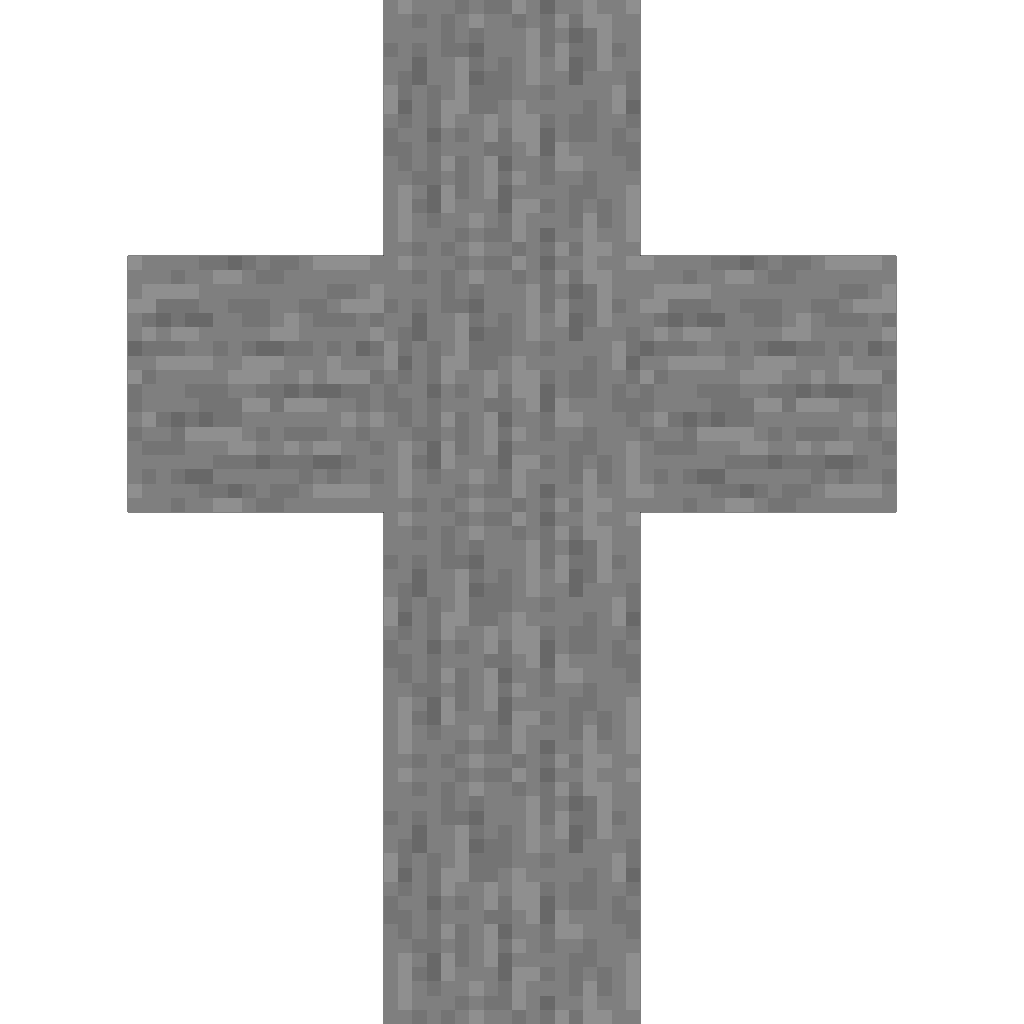
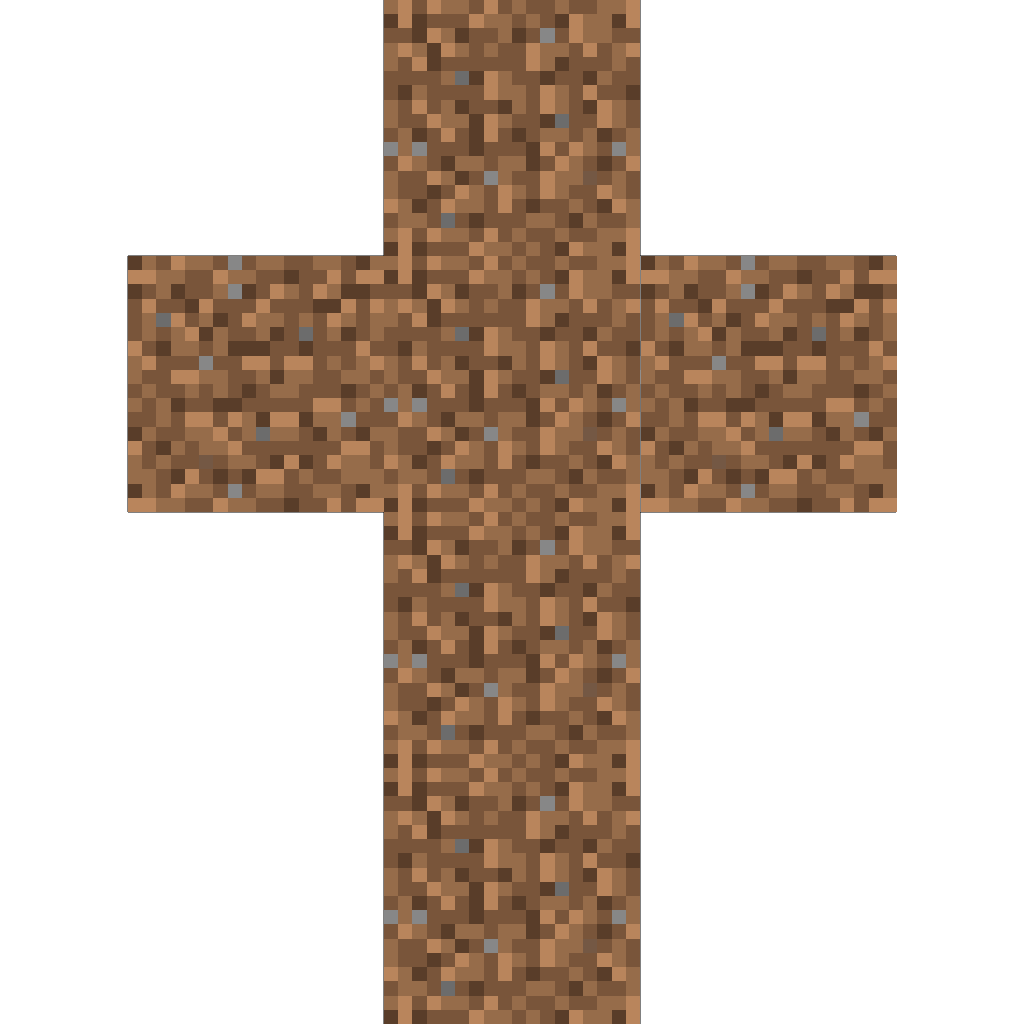
a

diff --git a/src/application/Phase/GameScenePhase/GameScenePhase.cpp b/src/application/Phase/GameScenePhase/GameScenePhase.cpp
@@ -256,17 +256,32 @@ void GameScenePhase::LoadMap(const std::string& mapFilePath)
 	{
 		for (int z = 0; z < MAX_BLOCK_Z; z++)
 		{
+			// Y軸の高さ
 			int height = blockHeightMap_[x][z];
-			for (int y = 0; y < height - 2; y++)
+			// 土の厚さ
+			int dirtThickness = Game::Math::RandInt(2, 3);
+			// 高さより土の厚さが大きい場合は調整
+			if (height - dirtThickness < 0)
+			{
+				dirtThickness = height;
+			}
+
+			for (int y = 0; y < height - dirtThickness; y++)
 			{
 				block_[x][y][z]->isDestroy_ = false;
 				block_[x][y][z]->model_.texture = ResourceID::blockTextureIDs_[int(BlockTextureID::Stone)];
 				block_[x][y][z]->maxDurability_ = 60;
 			}
-			for (int y = height - 2; y < height; y++)
+			for (int y = height - dirtThickness; y < height - 1; y++)
 			{
 				block_[x][y][z]->isDestroy_ = false;
 				block_[x][y][z]->model_.texture = ResourceID::blockTextureIDs_[int(BlockTextureID::Dirt)];
+				block_[x][y][z]->maxDurability_ = 30;
+			}
+			for (int y = height - 1; y < height; y++)
+			{
+				block_[x][y][z]->isDestroy_ = false;
+				block_[x][y][z]->model_.texture = ResourceID::blockTextureIDs_[int(BlockTextureID::lawn)];
 				block_[x][y][z]->maxDurability_ = 30;
 			}
 			for (int y = height; y < MAX_BLOCK_Y; y++)

diff --git a/ResourceID.cpp b/ResourceID.cpp
@@ -23,6 +23,9 @@ ResourceID::ResourceID()
 	tmp = Game::Resource::LoadTexture("resources/Minecraft/Blocks/dirt.png");
 	blockTextureIDs_[size_t(BlockTextureID::Dirt)] = tmp;
 
+	tmp = Game::Resource::LoadTexture("resources/Minecraft/Blocks/lawn.png");
+	blockTextureIDs_[size_t(BlockTextureID::lawn)] = tmp;
+
 
 	tmp = Game::Resource::LoadTexture("resources/Minecraft/breakBlock/breakBlock_0.png");
 	blockTextureIDs_[size_t(BlockTextureID::BreakBlock_0)] = tmp;

diff --git a/ResourceID.h b/ResourceID.h
@@ -7,7 +7,10 @@ enum class BlockTextureID
 	None,
 	Stone,
 	Grass,
+	// 草なし土
 	Dirt,
+	// 草付き土
+	lawn,
 
 	BreakBlock_0,
 	BreakBlock_1,
